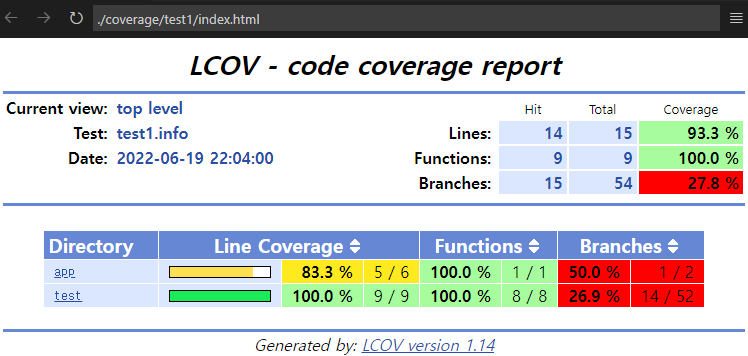
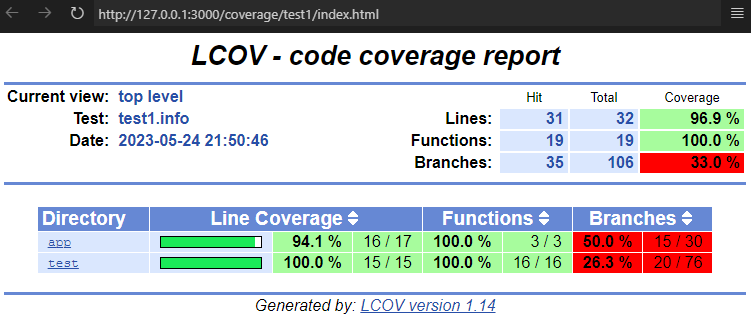
Add Opencv lib

diff --git a/app/func.cpp b/app/func.cpp
@@ -1,6 +1,16 @@
+#include <iostream>
+
+#include <vector>
+
+#include <boost/lambda/lambda.hpp>
+
+#include <opencv2/opencv.hpp>
+
 #include "func.hpp"
 
-int my_func(int input)
+using namespace std;
+
+int my_func1(int input)
 {
     int ret = 0;
 
@@ -14,4 +24,23 @@ int my_func(int input)
     }
 
     return ret;
+}
+
+int my_func2()
+{
+    vector<int> nlist = {1, 2};
+    for_each(nlist.begin(), nlist.end(), cout << (boost::lambda::_1 * 5) << " <\n");
+
+    return 0;
+}
+
+int my_func3(const char* image_path)
+{
+    cv::Mat image;
+    image = cv::imread(image_path);
+    cv::imshow("Image", image);
+    cv::waitKey(0);
+    cv::destroyAllWindows();
+
+    return 0;
 }

diff --git a/app/main.cpp b/app/main.cpp
@@ -1,7 +1,5 @@
 #include <iostream>
 
-#include <boost/lambda/lambda.hpp>
-
 #include "func.hpp"
 
 using namespace std;
@@ -10,9 +8,10 @@ int main()
 {
     cout << "Hello, world!" << "\n";
 
-    cout << "ret is : " << my_func(0) << "\n";
+    cout << "ret is : " << my_func1(0) << "\n";
 
-    for_each(istream_iterator<int>(cin), istream_iterator<int>(), cout << (boost::lambda::_1 * 3) << " <\n");
+    my_func2();
+    my_func3("../../app/lena.jpg");
 
     return 0;
 }

diff --git a/test/test1.cpp b/test/test1.cpp
@@ -5,7 +5,7 @@
 
 TEST(test1_suite1, test1)
 {
-    EXPECT_EQ(my_func(0), 10);
+    EXPECT_EQ(my_func1(0), 10);
 
     EXPECT_EQ(7 * 6, 42);
     EXPECT_EQ(7 * 6, 42);
@@ -15,4 +15,14 @@ TEST(test1_suite1, test2)
 {
     EXPECT_EQ(7 * 6, 41);
     EXPECT_EQ(7 * 6, 42);
+}
+
+TEST(test1_suite1, test3)
+{
+    EXPECT_EQ(my_func2(), 0);
+}
+
+TEST(test1_suite1, test4)
+{
+    EXPECT_EQ(my_func3("../app/lena.jpg"), 0);
 }

diff --git a/app/func.hpp b/app/func.hpp
@@ -1,3 +1,5 @@
 #pragma once
 
-int my_func(int input);
+int my_func1(int input);
+int my_func2();
+int my_func3(const char* image_path);

diff --git a/README.md b/README.md
@@ -6,13 +6,14 @@ C++ Boilerplate using CMake, Boost, Gcov, LCOV and GTest
 
 - CMake (3.16.3)
 - Boost (1.71.0)
+- OpenCV (4.2.0)
 - g++/Gcov (9.4.0)
 - LCOV (1.14)
 - GTest (1.11.0)
 - Ninja (1.10.0)
 
 ```shell
-sudo apt install build-essential libboost-all-dev cmake ninja-build lcov
+sudo apt install build-essential libboost-all-dev libopencv-dev cmake ninja-build lcov
 ```
 
 ## Generate
